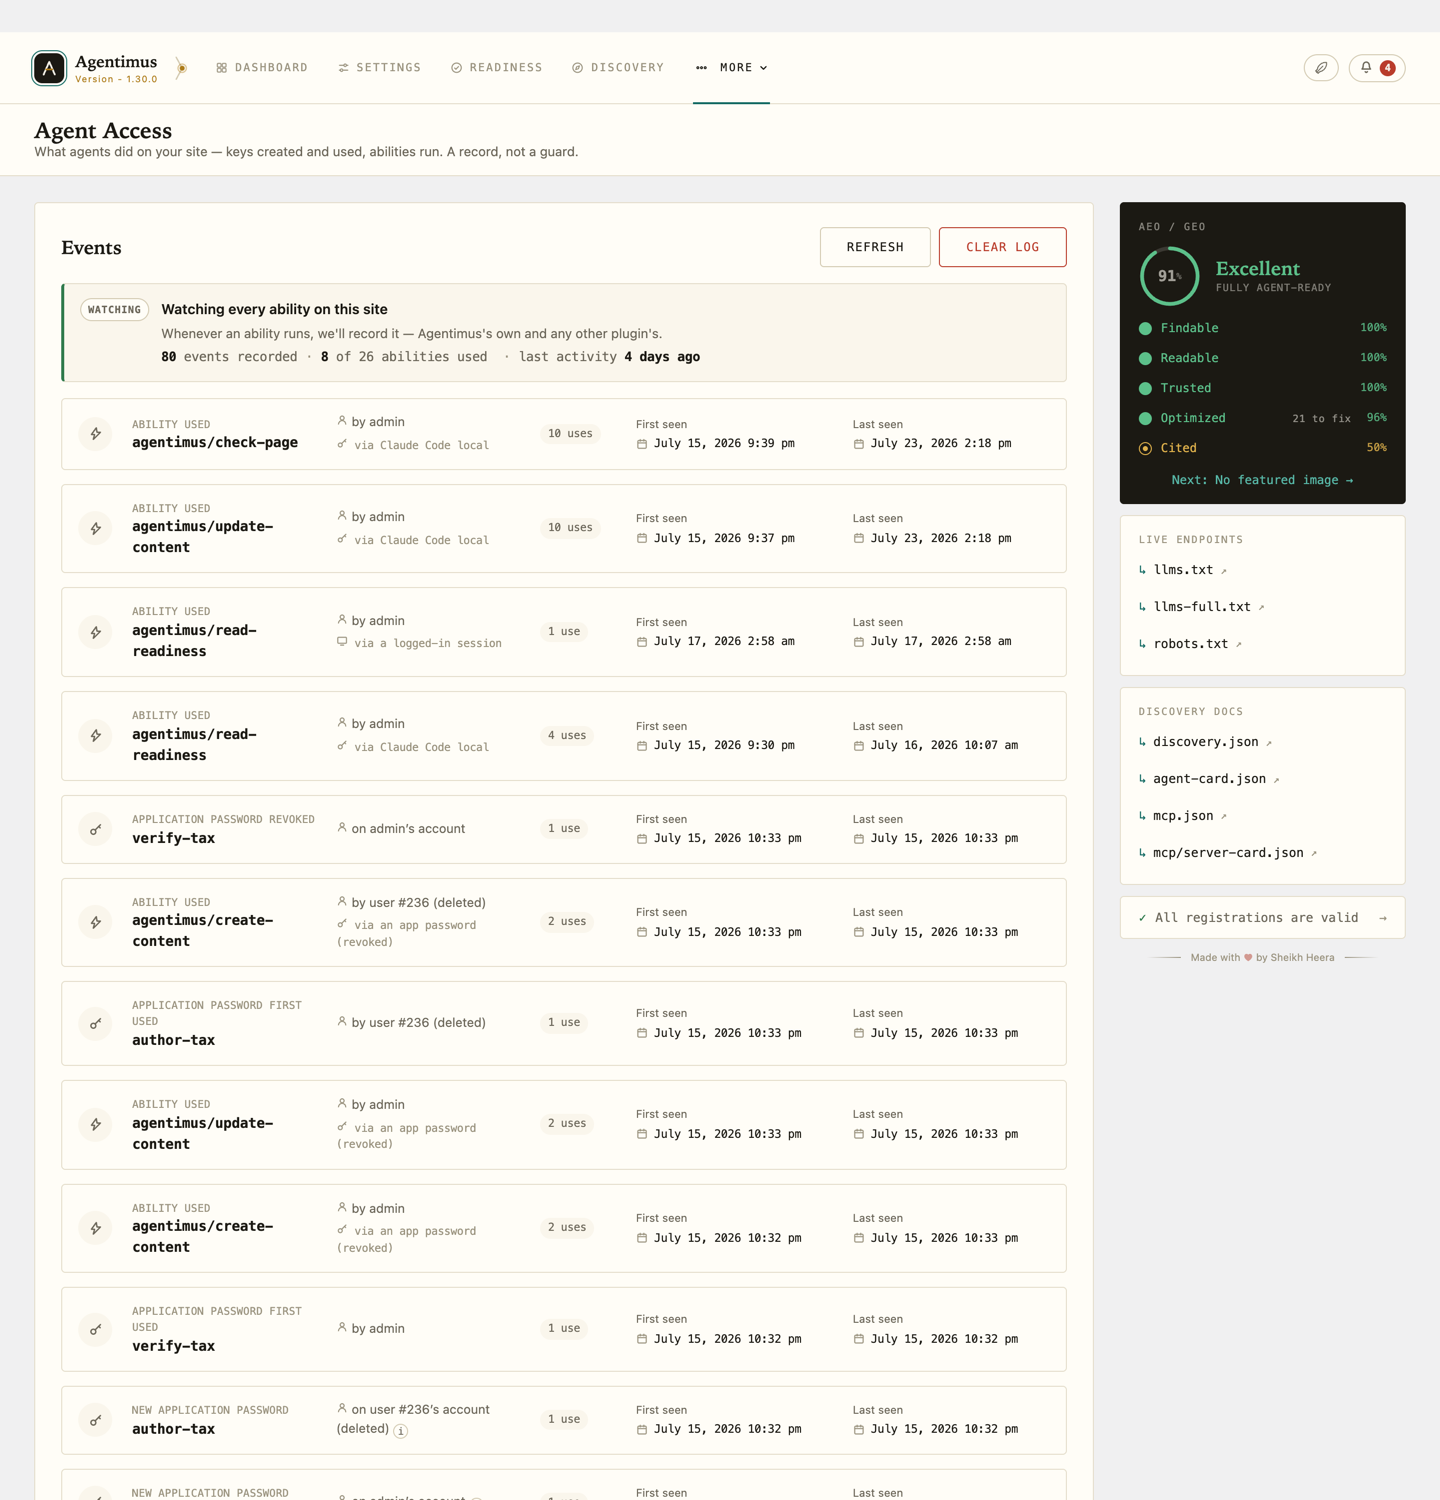
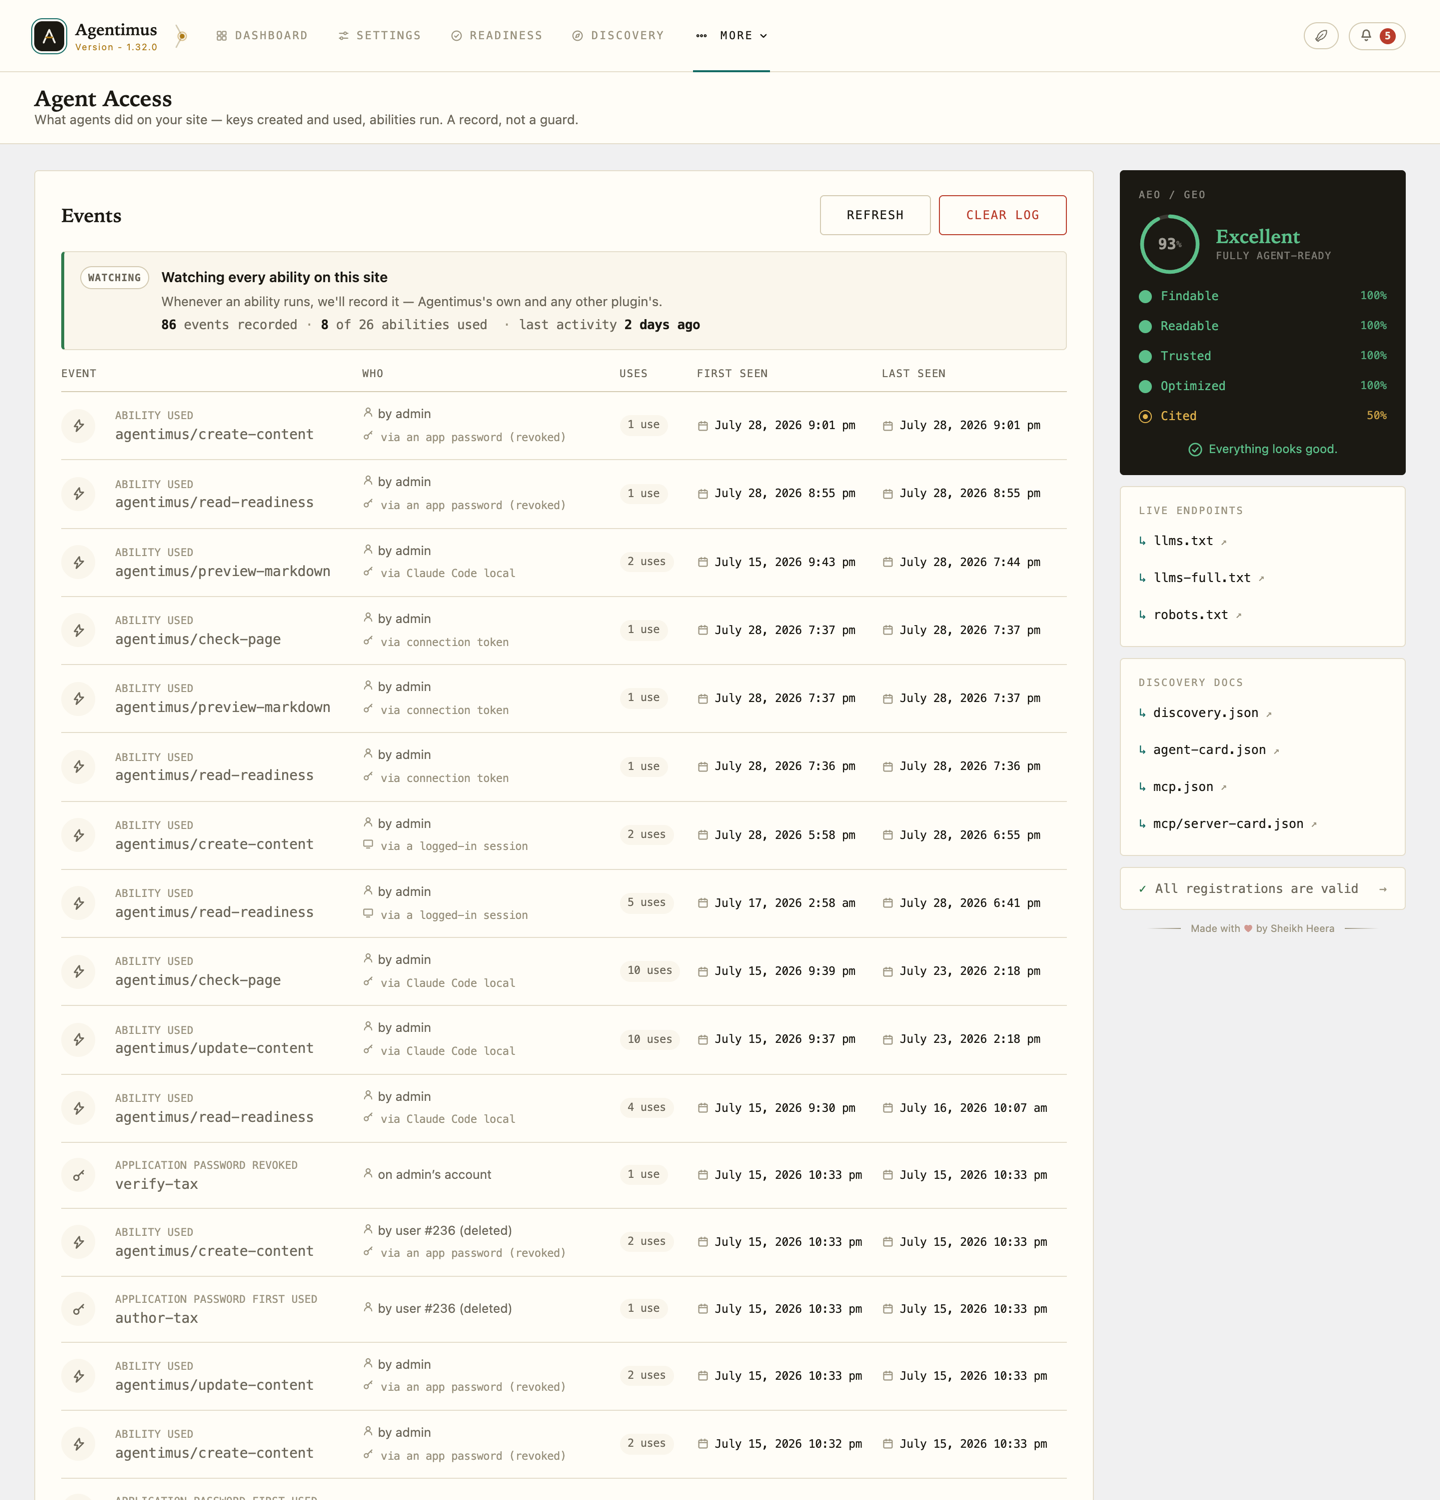
docs(release): tell today's truth about ChatGPT, and re-shoot the stale screens
ChatGPT connects by one-click approval now (behind its Developer-mode
switch), so every surface that said otherwise is corrected: the changelog
gains the discovery fix and the table/card/chip round and names Claude,
Cursor and ChatGPT as verified; What's New and the readme FAQ move the
token to the Codex column; the user manual walks the real ChatGPT path,
Cloudflare caveat included; the developer reference documents the derived
discovery address and why it exists.

Screenshots 2, 17 and 20 re-shot: the Settings page with MCP ahead of
Browser Tools, Agent Access as the new table, and the MCP card with a
three-row roster wearing its approval and token chips.

diff --git a/inc/Admin.php b/inc/Admin.php
@@ -655,15 +655,19 @@ final class Admin {
 			'items'   => array(
 				array(
 					'title' => 'Connect an assistant by approving it',
-					'text'  => 'Give an AI assistant your MCP address and it asks you for permission on a page on your own site. You choose Read only or Read and write — you can grant less than it asked for — and it gets its own key. Every approved assistant is listed under Connected assistants with its own Disconnect, so cutting one off leaves the others working. No keys to copy. Works today with Claude and Cursor.',
+					'text'  => 'Give an AI assistant your MCP address and it asks you for permission on a page on your own site. You choose Read only or Read and write — you can grant less than it asked for — and it gets its own key. Every approved assistant is listed under Connected assistants with its own Disconnect, so cutting one off leaves the others working. No keys to copy. Works today with Claude, ChatGPT and Cursor.',
 				),
 				array(
 					'title' => 'A shared token for the rest',
-					'text'  => 'Some assistants can’t ask for approval — ChatGPT and Codex among them. For those, one revocable token does the job: read-only or read-and-write, shown once, rotated or revoked whenever you like. And a read-only key now sees only the read tools, so an assistant is never offered a door it can’t open.',
+					'text'  => 'Some assistants can’t ask for approval — Codex among them. For those, one revocable token does the job: read-only or read-and-write, shown once, rotated or revoked whenever you like. And a read-only key now sees only the read tools, so an assistant is never offered a door it can’t open.',
 				),
 				array(
 					'title' => 'The MCP card, rebuilt',
-					'text'  => 'Your server address leads, because with one-click approval that address is the whole setup. Under it: who is connected, then setup steps folded away that show only the assistant you pick. One status line replaces three scattered facts.',
+					'text'  => 'Your server address leads, because with one-click approval that address is the whole setup. Under it: who is connected — each row saying how its key got in, by approval or by token — then setup steps folded away that show only the assistant you pick. One status line replaces three scattered facts.',
+				),
+				array(
+					'title' => 'Tables where they help, cards where they fit',
+					'text'  => 'Agent Access events now sit in a real table with column headings, so the labels aren’t repeated on every row. On phones the rows re-stack as the familiar cards — and the Request Log and the dashboard’s Recent Requests do the same, instead of scrolling sideways.',
 				),
 				array(
 					'title' => 'Honest about your own files',

diff --git a/docs/developer/rest-endpoints.md b/docs/developer/rest-endpoints.md
@@ -272,7 +272,7 @@ Added in 1.32.0. Two of these are **public by protocol** — an unknown client h
 
 The browser half is not a REST route: **`/agentimus/connect`** is a rewrite (`Oauth\Consent`), served outside the REST API so a plain cookie session works after the wp-login round-trip. It requires `manage_options`, re-validates the authorize request on POST rather than trusting its own form, and renders validation failures as a page — a request whose `redirect_uri` failed validation is never redirected to.
 
-**How a client finds all this.** An unauthenticated call to `/wp-json/agentimus/v1/mcp` returns `401` with `WWW-Authenticate: Bearer resource_metadata="…/.well-known/oauth-protected-resource/agentimus/mcp"`. That document names the issuer, whose RFC 8414 metadata carries the authorize, token and registration endpoints. The issuer is path-based (`{site}/agentimus/mcp`) so the well-known documents stay under a path this plugin owns and cannot collide with another plugin's OAuth server on the same site.
+**How a client finds all this.** An unauthenticated call to `/wp-json/agentimus/v1/mcp` returns `401` with `WWW-Authenticate: Bearer resource_metadata="…/.well-known/oauth-protected-resource/agentimus/mcp"`. That document names the issuer, whose RFC 8414 metadata carries the authorize, token and registration endpoints. The issuer is path-based (`{site}/agentimus/mcp`) so the well-known documents stay under a path this plugin owns and cannot collide with another plugin's OAuth server on the same site. Not every client reads the `WWW-Authenticate` hint: some (ChatGPT, verified July 2026) derive the metadata URL themselves per RFC 9728 §3.1 — inserting `/.well-known/oauth-protected-resource` between the host and the endpoint's own path — so the SAME document is also served at `…/.well-known/oauth-protected-resource/wp-json/agentimus/v1/mcp`, and a 404 there would read as "does not implement OAuth".
 
 **Scope is enforced twice.** `Registrar::filter_tools_for_scope()` narrows the advertised tool list per request (a read-only key is shown the ten read tools, never the five write ones), and each write ability's permission callback is wrapped by both `McpToken::gate_write_permission()` and `Oauth\Server::gate_write_permission()`. Hiding the tools is a courtesy; the gate is the boundary. Neither can exceed the site's own write settings.
 
@@ -376,6 +376,7 @@ All generated documents are served by `WellKnown::send()`, which sets:
 | `oauth-protected-resource`                      | `application/json`           | Only when an OAuth authorization server is configured (RFC 9728); else 404. |
 | `oauth-authorization-server/agentimus/mcp`      | `application/json`           | Only when the MCP server is on — RFC 8414 metadata for the plugin's OWN authorization server; else 404. |
 | `oauth-protected-resource/agentimus/mcp`        | `application/json`           | Only when the MCP server is on — RFC 9728 metadata naming that server as the MCP endpoint's authority; else 404. |
+| `oauth-protected-resource/wp-json/agentimus/v1/mcp` | `application/json`       | The same document at the RFC 9728 §3.1 path a client derives from the MCP endpoint URL itself (the REST prefix follows `rest_get_url_prefix()`); clients that skip the `WWW-Authenticate` hint look only here. |
 | `tdmrep.json`                                   | `application/json`           | Only when `enable_tdmrep` is on **and** AI training is reserved; else 404. |
 | `http-message-signatures-directory`             | `application/json`           | Only when response signing is enabled (the Web Bot Auth key directory); else 404. |
 | `security.txt`                                  | `text/plain`                 | Only when opted in, a Contact is configured, and no real file exists (see below). |

diff --git a/docs/user-manual/mcp-server.md b/docs/user-manual/mcp-server.md
@@ -62,7 +62,7 @@ The card shows yours with a **Copy** button, above a status line that says wheth
 There are three ways to do that. Try them in this order:
 
 1. **Approval.** You give the assistant the address and nothing else. It asks *you* for permission on a page on your own site, and you decide what it may do. Best for anything that supports it.
-2. **A shared connection token.** One secret you create and paste in. For assistants that cannot ask for approval — ChatGPT is one of them today.
+2. **A shared connection token.** One secret you create and paste in. For assistants that cannot ask for approval — Codex is one of them today.
 3. **An application password.** The original path, still fully supported. Best when you want one revocable key per tool, tied to a specific WordPress user.
 
 Whichever you use, the assistant appears under **Connected assistants** on the card, and every call it makes shows in **More → Agent Access**.
@@ -144,11 +144,15 @@ Needs a recent Cursor — older versions ignore MCP install links and show nothi
 
 ### ChatGPT and Codex
 
-ChatGPT cannot use the approval flow. Tested in July 2026, it reports "auth unsupported" and stops. Give it the shared connection token instead:
+ChatGPT — on the web and in the desktop app — uses the approval flow, behind one switch (verified July 2026):
 
-1. Settings → Plugins → MCPs → Add server, and pick **Streamable HTTP**.
-2. Paste your server address as the URL.
-3. Add the header `Authorization: Bearer agmcp_...`, using the token you created above.
+1. In ChatGPT: **Settings → Security → Developer mode**, on. This is what unlocks custom connectors; ChatGPT pauses its memory feature while it is on.
+2. **Plugins → the "+" button**: paste your server address, keep Authentication on **OAuth**, tick the acknowledgement, and **Create**.
+3. Press **Sign in with Agentimus** — ChatGPT sends you to the consent page on your own site. Approve, and it appears under Connected assistants.
+
+Two things to know. ChatGPT insists on the exact discovery address the standard derives from your server URL, which this plugin serves — but if your site sits behind **Cloudflare**, the free plan's *Bot Fight Mode* blocks ChatGPT's calls with a 403 before they reach your site, and it has to be off for the connection (and every later tool call) to work. Anthropic's fetchers are on Cloudflare's verified-bots list; OpenAI's are not.
+
+Codex cannot ask for approval. Give it the shared connection token instead:
 
 Codex — the CLI, the IDE extension, and Codex inside the ChatGPT desktop app — shares one configuration file, so a single entry covers all three. Add this to `~/.codex/config.toml`, then restart it (inside a session, `/mcp` shows whether it connected):
 
